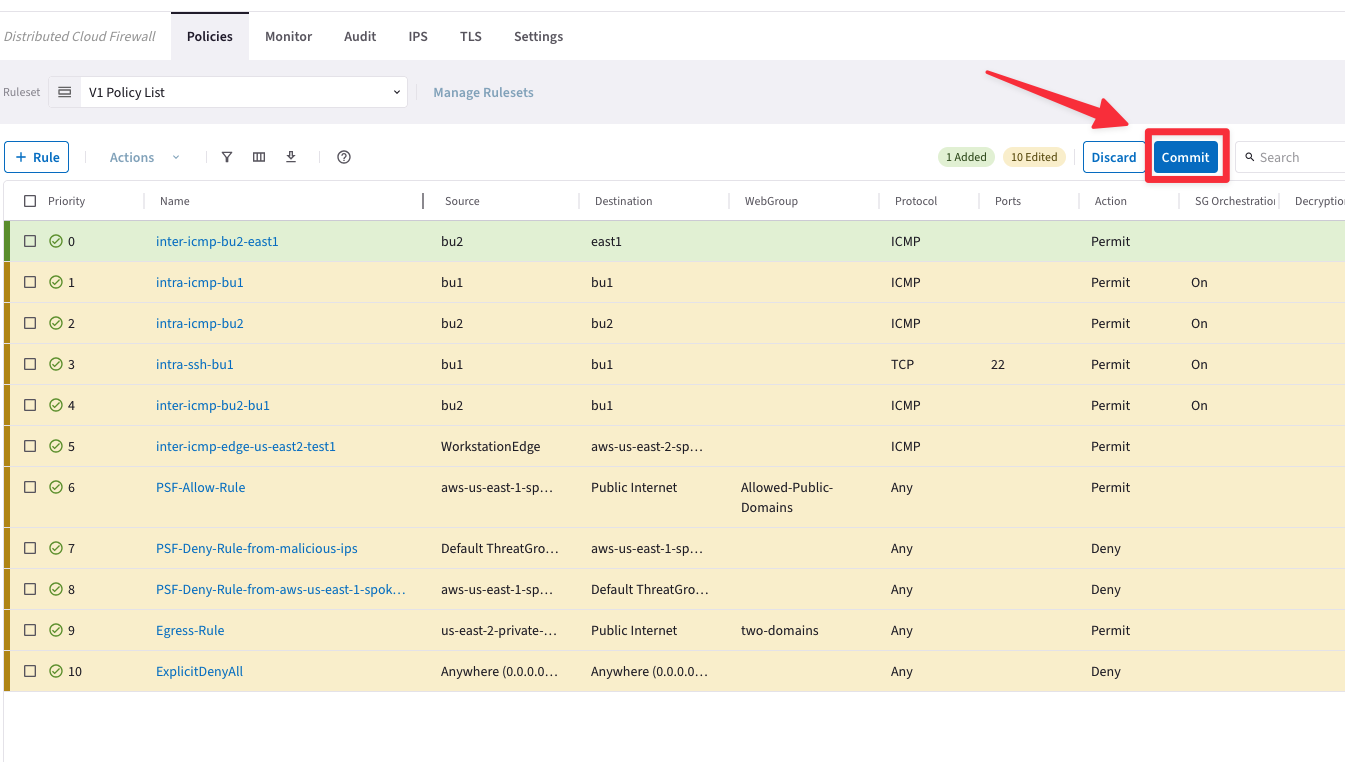
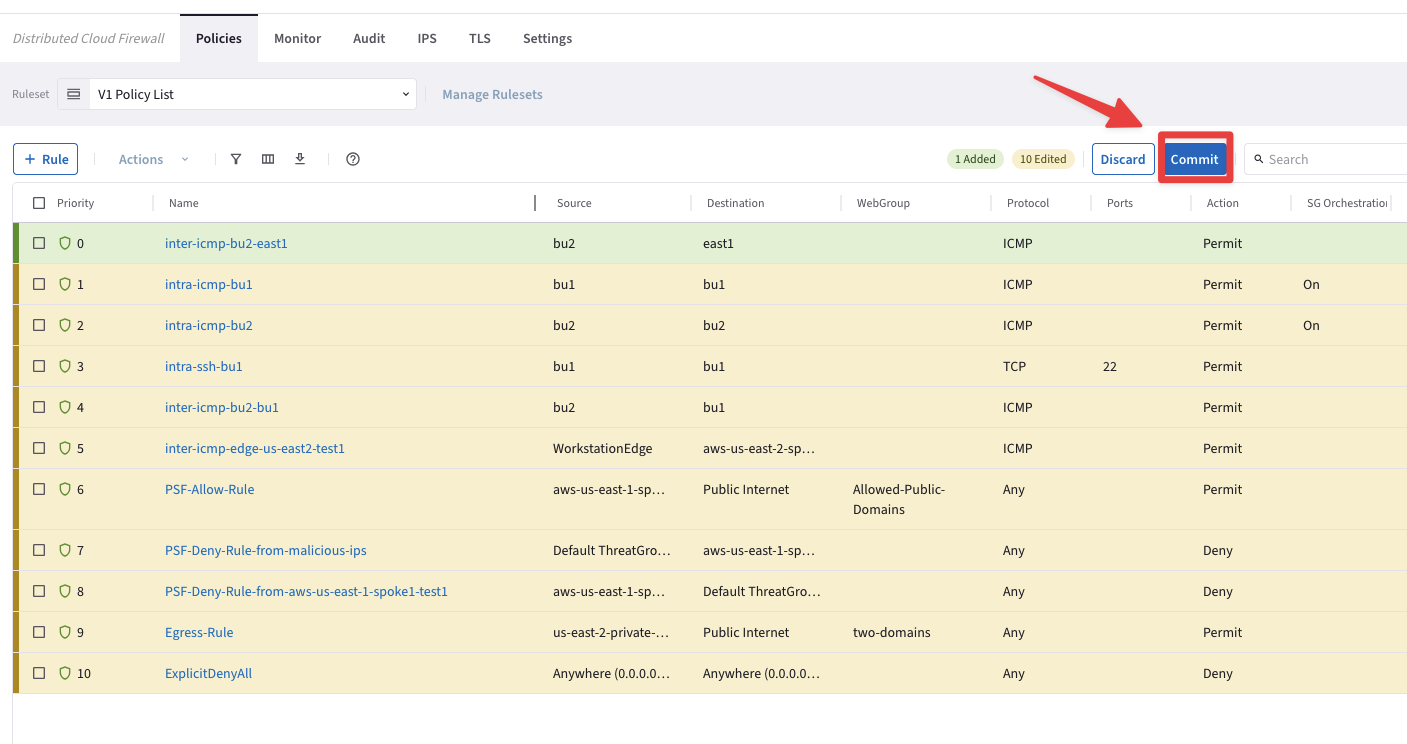
auto build from GitHub Actions

diff --git a/docs/ace-pro/docs/lab12.html b/docs/ace-pro/docs/lab12.html
@@ -402,11 +402,22 @@ document.write(`
 <ul class="simple">
 <li><p>Open <strong>Visual Studio Code</strong> located on the desktop, then click on the <code class="docutils literal notranslate"><span class="pre">Explorer</span></code> button.</p></li>
 </ul>
+<div class="admonition caution">
+<p class="admonition-title">Caution</p>
+<p>If this window appears, please ignore the message and click <strong>Cancel</strong>.</p>
 <figure class="align-center" id="id6">
+<a class="reference internal image-reference" href="../_images/lab11-edge333.png"><img alt="../_images/lab11-edge333.png" src="../_images/lab11-edge333.png" style="height: 400px;" />
+</a>
+<figcaption>
+<p><span class="caption-number">Fig. 647 </span><span class="caption-text">Unnamed Window</span><a class="headerlink" href="#id6" title="Link to this image">#</a></p>
+</figcaption>
+</figure>
+</div>
+<figure class="align-center" id="id7">
 <a class="reference internal image-reference" href="../_images/lab11-edge3.png"><img alt="../_images/lab11-edge3.png" src="../_images/lab11-edge3.png" style="height: 400px;" />
 </a>
 <figcaption>
-<p><span class="caption-number">Fig. 647 </span><span class="caption-text">VS Studio</span><a class="headerlink" href="#id6" title="Link to this image">#</a></p>
+<p><span class="caption-number">Fig. 648 </span><span class="caption-text">VS Studio</span><a class="headerlink" href="#id7" title="Link to this image">#</a></p>
 </figcaption>
 </figure>
 <ul class="simple">
@@ -416,29 +427,29 @@ document.write(`
 </ul>
 </li>
 </ul>
-<figure class="align-center" id="id7">
+<figure class="align-center" id="id8">
 <a class="reference internal image-reference" href="../_images/lab11-edge32.png"><img alt="../_images/lab11-edge32.png" src="../_images/lab11-edge32.png" style="height: 450px;" />
 </a>
 <figcaption>
-<p><span class="caption-number">Fig. 648 </span><span class="caption-text">Open Folder</span><a class="headerlink" href="#id7" title="Link to this image">#</a></p>
-</figcaption>
-</figure>
-<figure class="align-center" id="id8">
-<img alt="../_images/lab11-edge4.png" src="../_images/lab11-edge4.png" />
-<figcaption>
-<p><span class="caption-number">Fig. 649 </span><span class="caption-text">terraform-lab folder</span><a class="headerlink" href="#id8" title="Link to this image">#</a></p>
+<p><span class="caption-number">Fig. 649 </span><span class="caption-text">Open Folder</span><a class="headerlink" href="#id8" title="Link to this image">#</a></p>
 </figcaption>
 </figure>
 <figure class="align-center" id="id9">
-<img alt="../_images/lab11-newedge2.png" src="../_images/lab11-newedge2.png" />
+<img alt="../_images/lab11-edge4.png" src="../_images/lab11-edge4.png" />
 <figcaption>
-<p><span class="caption-number">Fig. 650 </span><span class="caption-text">Click “Open”</span><a class="headerlink" href="#id9" title="Link to this image">#</a></p>
+<p><span class="caption-number">Fig. 650 </span><span class="caption-text">terraform-lab folder</span><a class="headerlink" href="#id9" title="Link to this image">#</a></p>
 </figcaption>
 </figure>
 <figure class="align-center" id="id10">
+<img alt="../_images/lab11-newedge2.png" src="../_images/lab11-newedge2.png" />
+<figcaption>
+<p><span class="caption-number">Fig. 651 </span><span class="caption-text">Click “Open”</span><a class="headerlink" href="#id10" title="Link to this image">#</a></p>
+</figcaption>
+</figure>
+<figure class="align-center" id="id11">
 <img alt="../_images/lab11-newedge.png" src="../_images/lab11-newedge.png" />
 <figcaption>
-<p><span class="caption-number">Fig. 651 </span><span class="caption-text">Yes, I trust the authors</span><a class="headerlink" href="#id10" title="Link to this image">#</a></p>
+<p><span class="caption-number">Fig. 652 </span><span class="caption-text">Yes, I trust the authors</span><a class="headerlink" href="#id11" title="Link to this image">#</a></p>
 </figcaption>
 </figure>
 <ul class="simple">
@@ -448,16 +459,16 @@ document.write(`
 </ul>
 </li>
 </ul>
-<figure class="align-center" id="id11">
+<figure class="align-center" id="id12">
 <img alt="../_images/lab11-terraform200.png" src="../_images/lab11-terraform200.png" />
 <figcaption>
-<p><span class="caption-number">Fig. 652 </span><span class="caption-text">Manifest</span><a class="headerlink" href="#id11" title="Link to this image">#</a></p>
+<p><span class="caption-number">Fig. 653 </span><span class="caption-text">Manifest</span><a class="headerlink" href="#id12" title="Link to this image">#</a></p>
 </figcaption>
 </figure>
-<figure class="align-center" id="id12">
+<figure class="align-center" id="id13">
 <img alt="../_images/lab11-terraform2.png" src="../_images/lab11-terraform2.png" />
 <figcaption>
-<p><span class="caption-number">Fig. 653 </span><span class="caption-text">Manifest</span><a class="headerlink" href="#id12" title="Link to this image">#</a></p>
+<p><span class="caption-number">Fig. 654 </span><span class="caption-text">Manifest</span><a class="headerlink" href="#id13" title="Link to this image">#</a></p>
 </figcaption>
 </figure>
 <blockquote>
@@ -475,10 +486,10 @@ document.write(`
 <li><p>First thing we need to do is to <strong>initialize</strong> Terraform. This allows for the required providers and modules to be downloaded.</p></li>
 </ul>
 <p><code class="docutils literal notranslate"><span class="pre">terraform</span> <span class="pre">init</span></code></p>
-<figure class="align-center" id="id13">
+<figure class="align-center" id="id14">
 <img alt="../_images/lab11-terraform.png" src="../_images/lab11-terraform.png" />
 <figcaption>
-<p><span class="caption-number">Fig. 654 </span><span class="caption-text">Visual Studio Code</span><a class="headerlink" href="#id13" title="Link to this image">#</a></p>
+<p><span class="caption-number">Fig. 655 </span><span class="caption-text">Visual Studio Code</span><a class="headerlink" href="#id14" title="Link to this image">#</a></p>
 </figcaption>
 </figure>
 <ul class="simple">
@@ -493,10 +504,10 @@ document.write(`
 <section id="expected-results">
 <h3>2.1 Expected Results<a class="headerlink" href="#expected-results" title="Link to this heading">#</a></h3>
 <p>By running the above commands, you should see how simple it can be to automate your infrastructure deployments using Terraform.  With a few lines of code and after about <strong>6 minutes</strong>, you should see the new transit and spoke in CoPilot Topology.</p>
-<figure class="align-center" id="id14">
+<figure class="align-center" id="id15">
 <img alt="../_images/lab11-terraform-topology.png" src="../_images/lab11-terraform-topology.png" />
 <figcaption>
-<p><span class="caption-number">Fig. 655 </span><span class="caption-text">Topology</span><a class="headerlink" href="#id14" title="Link to this image">#</a></p>
+<p><span class="caption-number">Fig. 656 </span><span class="caption-text">Topology</span><a class="headerlink" href="#id15" title="Link to this image">#</a></p>
 </figcaption>
 </figure>
 <div class="admonition important">
@@ -518,16 +529,16 @@ document.write(`
 <li><p>We will be using the following module:  <code class="docutils literal notranslate"><span class="pre">https://registry.terraform.io/modules/terraform-aviatrix-modules/mc-transit-peering/aviatrix/latest</span></code></p></li>
 <li><p>Navigate to the <strong>Visual Studio Code</strong> session and create a new file. Name it <code class="docutils literal notranslate"><span class="pre">peering.tf</span></code>.</p></li>
 </ul>
-<figure class="align-center" id="id15">
+<figure class="align-center" id="id16">
 <img alt="../_images/lab11-newfile.png" src="../_images/lab11-newfile.png" />
 <figcaption>
-<p><span class="caption-number">Fig. 656 </span><span class="caption-text">New File</span><a class="headerlink" href="#id15" title="Link to this image">#</a></p>
+<p><span class="caption-number">Fig. 657 </span><span class="caption-text">New File</span><a class="headerlink" href="#id16" title="Link to this image">#</a></p>
 </figcaption>
 </figure>
-<figure class="align-center" id="id16">
+<figure class="align-center" id="id17">
 <img alt="../_images/lab11-peering.png" src="../_images/lab11-peering.png" />
 <figcaption>
-<p><span class="caption-number">Fig. 657 </span><span class="caption-text"><a class="reference external" href="http://peering.tf">peering.tf</a></span><a class="headerlink" href="#id16" title="Link to this image">#</a></p>
+<p><span class="caption-number">Fig. 658 </span><span class="caption-text"><a class="reference external" href="http://peering.tf">peering.tf</a></span><a class="headerlink" href="#id17" title="Link to this image">#</a></p>
 </figcaption>
 </figure>
 <ul class="simple">
@@ -548,83 +559,83 @@ document.write(`
 <p class="admonition-title">Note</p>
 <p><em>Copy and Paste</em> does not work directly from the host machine towards the Workstation “Edge”, therefore activate the <strong>Hidden Menu</strong>, that is a sidebar that is maintained hidden until explicitly enabled. On a desktop or other device which has a hardware keyboard, you can show this menu by pressing <strong>Ctrl+Alt+Shift</strong> on Windows machine (<strong>Control+Shift+Command</strong> on Mac).</p>
 </div>
-<figure class="align-center" id="id17">
+<figure class="align-center" id="id18">
 <img alt="../_images/lab11-clip1.png" src="../_images/lab11-clip1.png" />
 <figcaption>
-<p><span class="caption-number">Fig. 658 </span><span class="caption-text">Hidden Clipboard</span><a class="headerlink" href="#id17" title="Link to this image">#</a></p>
-</figcaption>
-</figure>
-<figure class="align-center" id="id18">
-<img alt="../_images/lab11-clip2.png" src="../_images/lab11-clip2.png" />
-<figcaption>
-<p><span class="caption-number">Fig. 659 </span><span class="caption-text">Copy the statemets from the Lab Guides and paste them in to the hidden clipboard</span><a class="headerlink" href="#id18" title="Link to this image">#</a></p>
+<p><span class="caption-number">Fig. 659 </span><span class="caption-text">Hidden Clipboard</span><a class="headerlink" href="#id18" title="Link to this image">#</a></p>
 </figcaption>
 </figure>
 <figure class="align-center" id="id19">
-<img alt="../_images/lab11-clip3.png" src="../_images/lab11-clip3.png" />
+<img alt="../_images/lab11-clip2.png" src="../_images/lab11-clip2.png" />
 <figcaption>
-<p><span class="caption-number">Fig. 660 </span><span class="caption-text">Copy the statements from the hidden clipboard and close the clipboard</span><a class="headerlink" href="#id19" title="Link to this image">#</a></p>
+<p><span class="caption-number">Fig. 660 </span><span class="caption-text">Copy the statemets from the Lab Guides and paste them in to the hidden clipboard</span><a class="headerlink" href="#id19" title="Link to this image">#</a></p>
 </figcaption>
 </figure>
 <figure class="align-center" id="id20">
-<img alt="../_images/lab11-clip33.png" src="../_images/lab11-clip33.png" />
+<img alt="../_images/lab11-clip3.png" src="../_images/lab11-clip3.png" />
 <figcaption>
-<p><span class="caption-number">Fig. 661 </span><span class="caption-text">Paste the commands</span><a class="headerlink" href="#id20" title="Link to this image">#</a></p>
+<p><span class="caption-number">Fig. 661 </span><span class="caption-text">Copy the statements from the hidden clipboard and close the clipboard</span><a class="headerlink" href="#id20" title="Link to this image">#</a></p>
 </figcaption>
 </figure>
 <figure class="align-center" id="id21">
+<img alt="../_images/lab11-clip33.png" src="../_images/lab11-clip33.png" />
+<figcaption>
+<p><span class="caption-number">Fig. 662 </span><span class="caption-text">Paste the commands</span><a class="headerlink" href="#id21" title="Link to this image">#</a></p>
+</figcaption>
+</figure>
+<figure class="align-center" id="id22">
 <img alt="../_images/lab11-clip4.png" src="../_images/lab11-clip4.png" />
 <figcaption>
-<p><span class="caption-number">Fig. 662 </span><span class="caption-text">Save the file!</span><a class="headerlink" href="#id21" title="Link to this image">#</a></p>
+<p><span class="caption-number">Fig. 663 </span><span class="caption-text">Save the file!</span><a class="headerlink" href="#id22" title="Link to this image">#</a></p>
 </figcaption>
 </figure>
 <ul class="simple">
 <li><p>After creating the <a class="reference external" href="http://peering.tf">peering.tf</a> manifest, be sure to <strong>SAVE</strong> the file in Visual Studio Code.</p></li>
 <li><p>Navigate to the <strong>LXTerminal</strong> and run <code class="docutils literal notranslate"><span class="pre">terraform</span> <span class="pre">init</span></code> again to download the <code class="docutils literal notranslate"><span class="pre">mc-transit-peering</span></code> module</p></li>
 </ul>
-<figure class="align-center" id="id22">
+<figure class="align-center" id="id23">
 <a class="reference internal image-reference" href="../_images/lab11-clip5.png"><img alt="../_images/lab11-clip5.png" src="../_images/lab11-clip5.png" style="height: 400px;" />
 </a>
 <figcaption>
-<p><span class="caption-number">Fig. 663 </span><span class="caption-text">Once again “terraform init”</span><a class="headerlink" href="#id22" title="Link to this image">#</a></p>
+<p><span class="caption-number">Fig. 664 </span><span class="caption-text">Once again “terraform init”</span><a class="headerlink" href="#id23" title="Link to this image">#</a></p>
 </figcaption>
 </figure>
 <ul class="simple">
 <li><p>Run the command <code class="docutils literal notranslate"><span class="pre">terraform</span> <span class="pre">plan</span></code> to assess the changes</p></li>
 </ul>
-<figure class="align-center" id="id23">
+<figure class="align-center" id="id24">
 <a class="reference internal image-reference" href="../_images/lab11-clip6.png"><img alt="../_images/lab11-clip6.png" src="../_images/lab11-clip6.png" style="height: 400px;" />
 </a>
 <figcaption>
-<p><span class="caption-number">Fig. 664 </span><span class="caption-text">Once again “terraform plan”</span><a class="headerlink" href="#id23" title="Link to this image">#</a></p>
+<p><span class="caption-number">Fig. 665 </span><span class="caption-text">Once again “terraform plan”</span><a class="headerlink" href="#id24" title="Link to this image">#</a></p>
 </figcaption>
 </figure>
 <ul class="simple">
 <li><p>Run the command <code class="docutils literal notranslate"><span class="pre">terraform</span> <span class="pre">apply</span> <span class="pre">--auto-approve</span></code></p></li>
 </ul>
-<figure class="align-center" id="id24">
+<figure class="align-center" id="id25">
 <a class="reference internal image-reference" href="../_images/lab11-clip7.png"><img alt="../_images/lab11-clip7.png" src="../_images/lab11-clip7.png" style="height: 400px;" />
 </a>
 <figcaption>
-<p><span class="caption-number">Fig. 665 </span><span class="caption-text">Once again “terraform apply”</span><a class="headerlink" href="#id24" title="Link to this image">#</a></p>
+<p><span class="caption-number">Fig. 666 </span><span class="caption-text">Once again “terraform apply”</span><a class="headerlink" href="#id25" title="Link to this image">#</a></p>
 </figcaption>
 </figure>
 </section>
 <section id="id2">
 <h3>3.3 Expected Results<a class="headerlink" href="#id2" title="Link to this heading">#</a></h3>
 <p>After a few minutes, a new peering will be established between the <strong>aws-us-east-2-transit</strong> GW and the a<strong>aws-us-west-2-transit</strong> GW. You can then open CoPilot to visualize the updated topology.</p>
-<figure class="align-center" id="id25">
+<figure class="align-center" id="id26">
 <img alt="../_images/lab11-topoloy-transit-peerings.png" src="../_images/lab11-topoloy-transit-peerings.png" />
 <figcaption>
-<p><span class="caption-number">Fig. 666 </span><span class="caption-text">New Peering</span><a class="headerlink" href="#id25" title="Link to this image">#</a></p>
+<p><span class="caption-number">Fig. 667 </span><span class="caption-text">New Peering</span><a class="headerlink" href="#id26" title="Link to this image">#</a></p>
 </figcaption>
 </figure>
 <p><code class="docutils literal notranslate"><span class="pre">Congratulations!</span> <span class="pre">You</span> <span class="pre">have</span> <span class="pre">successfully</span> <span class="pre">deployed</span> <span class="pre">the</span> <span class="pre">complete</span> <span class="pre">Aviatrix</span> <span class="pre">CNSF</span> <span class="pre">solution.</span></code></p>
-<figure class="align-center" id="id26">
+<figure class="align-center" id="id27">
 <a class="reference internal image-reference" href="../_images/lab11-lastdrawing.png"><img alt="../_images/lab11-lastdrawing.png" src="../_images/lab11-lastdrawing.png" style="height: 400px;" />
 </a>
 <figcaption>
-<p><span class="caption-number">Fig. 667 </span><span class="caption-text">Complete Aviatrix Cloud Native Security Fabric (CNSF) Solution</span><a class="headerlink" href="#id26" title="Link to this image">#</a></p>
+<p><span class="caption-number">Fig. 668 </span><span class="caption-text">Complete Aviatrix Cloud Native Security Fabric (CNSF) Solution</span><a class="headerlink" href="#id27" title="Link to this image">#</a></p>
 </figcaption>
 </figure>
 </section>
@@ -649,10 +660,10 @@ document.write(`
 <ul class="simple">
 <li><p>Navigate to your personal POD Portal, identify the <strong><em>Lab12</em></strong> section and click on the <code class="docutils literal notranslate"><span class="pre">Open</span> <span class="pre">Grafana</span></code> button.</p></li>
 </ul>
-<figure class="align-center" id="id27">
+<figure class="align-center" id="id28">
 <img alt="../_images/lab11-edge10.png" src="../_images/lab11-edge10.png" />
 <figcaption>
-<p><span class="caption-number">Fig. 668 </span><span class="caption-text">Lab 12 section on the POD Portal</span><a class="headerlink" href="#id27" title="Link to this image">#</a></p>
+<p><span class="caption-number">Fig. 669 </span><span class="caption-text">Lab 12 section on the POD Portal</span><a class="headerlink" href="#id28" title="Link to this image">#</a></p>
 </figcaption>
 </figure>
 <div class="admonition important">
@@ -660,17 +671,17 @@ document.write(`
 <p>The API Key was generated at the launch of all PODs and applied to the Prometheus/Grafana server!</p>
 </div>
 <p>Enter the required credentials that are available on the POD Portal and then click on <strong>Log in</strong>.</p>
-<figure class="align-center" id="id28">
+<figure class="align-center" id="id29">
 <img alt="../_images/lab11-edge20.png" src="../_images/lab11-edge20.png" />
 <figcaption>
-<p><span class="caption-number">Fig. 669 </span><span class="caption-text">Grafana Login Page</span><a class="headerlink" href="#id28" title="Link to this image">#</a></p>
+<p><span class="caption-number">Fig. 670 </span><span class="caption-text">Grafana Login Page</span><a class="headerlink" href="#id29" title="Link to this image">#</a></p>
 </figcaption>
 </figure>
 <p>You will immediately notice the <strong>Receive Rate</strong> and <strong>Transmit Rate</strong> stats!</p>
-<figure class="align-center" id="id29">
+<figure class="align-center" id="id30">
 <img alt="../_images/lab11-edge30.png" src="../_images/lab11-edge30.png" />
 <figcaption>
-<p><span class="caption-number">Fig. 670 </span><span class="caption-text">Receive Rate and Transmit Rate</span><a class="headerlink" href="#id29" title="Link to this image">#</a></p>
+<p><span class="caption-number">Fig. 671 </span><span class="caption-text">Receive Rate and Transmit Rate</span><a class="headerlink" href="#id30" title="Link to this image">#</a></p>
 </figcaption>
 </figure>
 <div class="admonition caution">
@@ -678,21 +689,21 @@ document.write(`
 <p>Navigate to <strong>CoPilot &gt; Settings &gt; Configuration</strong> and locate the “<code class="docutils literal notranslate"><span class="pre">&quot;Network</span> <span class="pre">Insights</span> <span class="pre">API&quot;</span></code> widget.</p>
 <p>The <strong>API Key</strong> generated within CoPilot can be found there and should be used in Prometheus/Grafana.</p>
 </div>
-<figure class="align-center" id="id30">
+<figure class="align-center" id="id31">
 <a class="reference internal image-reference" href="../_images/lab11-networkinsight1.png"><img alt="../_images/lab11-networkinsight1.png" src="../_images/lab11-networkinsight1.png" style="height: 450px;" />
 </a>
 <figcaption>
-<p><span class="caption-number">Fig. 671 </span><span class="caption-text">Network Insight API section</span><a class="headerlink" href="#id30" title="Link to this image">#</a></p>
+<p><span class="caption-number">Fig. 672 </span><span class="caption-text">Network Insight API section</span><a class="headerlink" href="#id31" title="Link to this image">#</a></p>
 </figcaption>
 </figure>
 <div class="admonition tip">
 <p class="admonition-title">Tip</p>
 <p>Download the API Key and explore the content of the file!</p>
 </div>
-<figure class="align-center" id="id31">
+<figure class="align-center" id="id32">
 <img alt="../_images/lab11-networkinsight2.png" src="../_images/lab11-networkinsight2.png" />
 <figcaption>
-<p><span class="caption-number">Fig. 672 </span><span class="caption-text">API key</span><a class="headerlink" href="#id31" title="Link to this image">#</a></p>
+<p><span class="caption-number">Fig. 673 </span><span class="caption-text">API key</span><a class="headerlink" href="#id32" title="Link to this image">#</a></p>
 </figcaption>
 </figure>
 </section>

diff --git a/docs/ace-pro/docs/lab11.html b/docs/ace-pro/docs/lab11.html
@@ -1436,7 +1436,7 @@ document.write(`
 <li><p><strong>Matches all conditions (AND):<span style='color:#479608'> Name</span></strong></p></li>
 <li><p><strong>CSP Tag Value</strong>: <span style='color:#479608'>aws-us-east-1-spoke1-test2</span></p></li>
 </ul>
-<figure class="align-default" id="id90">
+<figure class="align-center" id="id90">
 <img alt="../_images/lab10-mtt9.png" src="../_images/lab10-mtt9.png" />
 <figcaption>
 <p><span class="caption-number">Fig. 624 </span><span class="caption-text">Resource Selection</span><a class="headerlink" href="#id90" title="Link to this image">#</a></p>

diff --git a/docs/ace-pro/_sources/docs/lab12.md b/docs/ace-pro/_sources/docs/lab12.md
@@ -31,6 +31,16 @@ Edge Workstation credentials
 
 * Open **Visual Studio Code** located on the desktop, then click on the `Explorer` button.
 
+```{caution}
+If this window appears, please ignore the message and click **Cancel**.
+```{figure} images/lab11-edge333.png
+---
+height: 400px
+align: center
+---
+Unnamed Window
+```
+
 ```{figure} images/lab11-edge3.png
 ---
 height: 400px

diff --git a/docs/ace-pro/_sources/docs/lab11.md b/docs/ace-pro/_sources/docs/lab11.md
@@ -1144,7 +1144,6 @@ Ensure these parameters are entered in the pop-up window `"Create SmartGroup"`:
 - **CSP Tag Value**: <span style='color:#479608'>aws-us-east-1-spoke1-test2</span>
   
 ```{figure} images/lab10-mtt9.png
-
 ---
 align: center
 ---